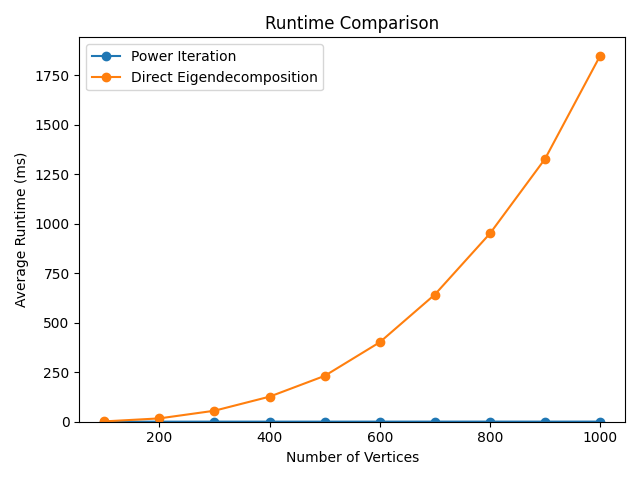
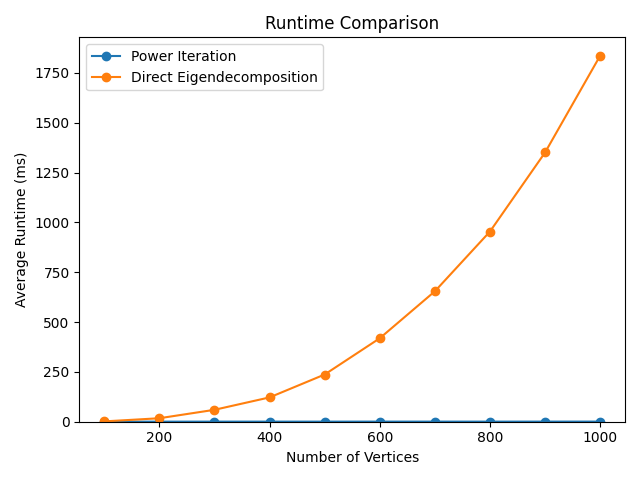
Coding done

diff --git a/scripts/generate_tables.py b/scripts/generate_tables.py
@@ -1,0 +1,174 @@
+import os
+import math
+import csv
+
+INPUT_DIR = "data/output"
+OUTPUT_DIR = "report/figures"
+
+os.makedirs(OUTPUT_DIR, exist_ok=True)
+
+
+def extract_metadata(filepath):
+    method = None
+    vertices = None
+    runtime = None
+    values = []
+
+    with open(filepath, "r") as f:
+        for line in f:
+            line = line.strip()
+
+            if line.startswith("#"):
+                if "Method:" in line:
+                    method = line.split(":")[1].strip()
+
+                elif "Vertices:" in line:
+                    vertices = int(line.split(":")[1].strip())
+
+                elif "Runtime(ms):" in line:
+                    runtime = float(line.split(":")[1].strip())
+
+            else:
+                parts = line.split()
+                if len(parts) == 2:
+                    values.append(float(parts[1]))
+
+    return {
+        "method": method,
+        "vertices": vertices,
+        "runtime": runtime,
+        "values": values,
+        "filename": os.path.basename(filepath)
+    }
+
+
+def collect_results():
+    results = []
+
+    for file in os.listdir(INPUT_DIR):
+        if not file.endswith(".out"):
+            continue
+
+        path = os.path.join(INPUT_DIR, file)
+        results.append(extract_metadata(path))
+
+    return results
+
+
+def average(values):
+    if not values:
+        return None
+    return sum(values) / len(values)
+
+
+def compute_percentage_relative_error(power, direct):
+    if len(power) != len(direct):
+        return None
+
+    numerator = 0.0
+    denominator = 0.0
+
+    for x, y in zip(power, direct):
+        numerator += (x - y) ** 2
+        denominator += y ** 2
+
+    numerator = math.sqrt(numerator)
+    denominator = math.sqrt(denominator)
+
+    if denominator == 0.0:
+        return None
+
+    return (numerator / denominator) * 100.0
+
+
+def export_runtime_table(results):
+    power_grouped = {}
+    direct_grouped = {}
+
+    for item in results:
+        n = item["vertices"]
+
+        if item["method"] == "power":
+            power_grouped.setdefault(n, []).append(item["runtime"])
+
+        elif item["method"] == "direct":
+            direct_grouped.setdefault(n, []).append(item["runtime"])
+
+    x_values = sorted(
+        set(power_grouped.keys()) |
+        set(direct_grouped.keys())
+    )
+
+    output_path = os.path.join(OUTPUT_DIR, "runtime_table.csv")
+
+    with open(output_path, "w", newline="") as f:
+        writer = csv.writer(f)
+        writer.writerow(["Vertices", "Power(ms)", "Direct(ms)"])
+
+        for n in x_values:
+            power_avg = average(power_grouped.get(n, []))
+            direct_avg = average(direct_grouped.get(n, []))
+            writer.writerow([n, power_avg, direct_avg])
+
+    print(f"Saved: {output_path}")
+
+
+def export_accuracy_table(results):
+    grouped = {}
+
+    for item in results:
+        name = item["filename"]
+
+        if "_power.out" in name:
+            key = name.replace("_power.out", "")
+            grouped.setdefault(key, {})["power"] = item
+
+        elif "_direct.out" in name:
+            key = name.replace("_direct.out", "")
+            grouped.setdefault(key, {})["direct"] = item
+
+    error_by_size = {}
+
+    for key, methods in grouped.items():
+        if "power" not in methods or "direct" not in methods:
+            continue
+
+        error = compute_percentage_relative_error(
+            methods["power"]["values"],
+            methods["direct"]["values"]
+        )
+
+        if error is None:
+            continue
+
+        n = methods["power"]["vertices"]
+        error_by_size.setdefault(n, []).append(error)
+
+    output_path = os.path.join(OUTPUT_DIR, "accuracy_table.csv")
+
+    with open(output_path, "w", newline="") as f:
+        writer = csv.writer(f)
+        writer.writerow(["Vertices", "RelativeError(%)"])
+
+        for n in sorted(error_by_size.keys()):
+            avg_error = average(error_by_size[n])
+            writer.writerow([n, avg_error])
+
+    print(f"Saved: {output_path}")
+
+
+def main():
+    results = collect_results()
+
+    if not results:
+        print("No output files found.")
+        return
+
+    export_runtime_table(results)
+    export_accuracy_table(results)
+
+    print("CSV tables generated successfully.")
+
+
+if __name__ == "__main__":
+    main()